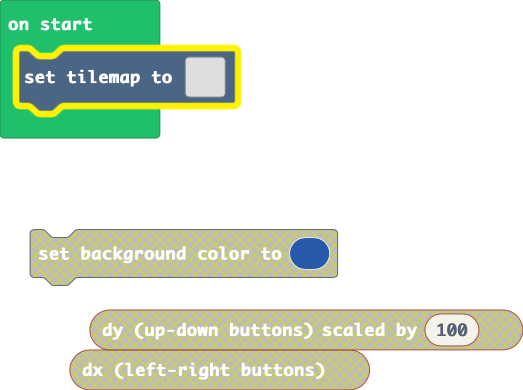
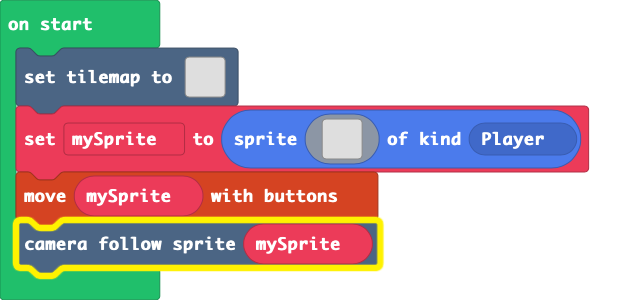
Update main.blocks, main.ts

diff --git a/main.ts b/main.ts
@@ -1,18 +1,35 @@
[1 lines of base64/hex data omitted]
-    . . . . . . . . . . . . . . . . 
-    . . . . . . . . . . . . . . . . 
-    . . . . . . . . . . . . . . . . 
-    . . . . . . . . . . . . . . . . 
-    . . . . . . . . . . . . . . . . 
-    . . . . . . . . . . . . . . . . 
-    . . . . . . . . . . . . . . . . 
-    . . . . . . . . . . . . . . . . 
-    . . . . . . . . . . . . . . . . 
-    . . . . . . . . . . . . . . . . 
-    . . . . . . . . . . . . . . . . 
-    . . . . . . . . . . . . . . . . 
-    . . . . . . . . . . . . . . . . 
-    . . . . . . . . . . . . . . . . 
-    . . . . . . . . . . . . . . . . 
-    . . . . . . . . . . . . . . . . 
-    `, [myTiles.transparency16,sprites.dungeon.purpleOuterNorthWest,sprites.dungeon.purpleInnerNorthEast,sprites.dungeon.purpleOuterNorth0,sprites.dungeon.purpleOuterNorthEast,sprites.dungeon.purpleOuterEast0,sprites.dungeon.purpleOuterWest0,sprites.dungeon.purpleOuterSouthEast,sprites.dungeon.purpleOuterSouthWest,sprites.dungeon.purpleOuterSouth1,sprites.dungeon.purpleInnerNorthWest,sprites.dungeon.purpleInnerSouthEast,sprites.dungeon.purpleInnerSouthWest,sprites.dungeon.purpleOuterWest1,sprites.dungeon.purpleOuterNorth1,sprites.dungeon.floorLight0], TileScale.Sixteen))
[1 lines of base64/hex data omitted]
+    . . . . . . . . . . 
+    . . . . . . . . . . 
+    . . . . . . . . . . 
+    . . . . . . . . . . 
+    . . . . . . . . . . 
+    . . . . . . . . . . 
+    . . . . . . . . . . 
+    . . . . . . . . . . 
+    . . . . . . . . . . 
+    . . . . . . . . . . 
+    . . . . . . . . . . 
+    . . . . . . . . . . 
+    . . . . . . . . . . 
+    `, [myTiles.transparency16,sprites.dungeon.purpleOuterNorthWest,sprites.dungeon.purpleInnerNorthEast,sprites.dungeon.purpleOuterNorth0,sprites.dungeon.purpleOuterNorthEast,sprites.dungeon.purpleOuterEast0,sprites.dungeon.purpleOuterSouthEast,sprites.dungeon.purpleOuterSouthWest,sprites.dungeon.purpleOuterSouth1,sprites.dungeon.purpleInnerNorthWest,sprites.dungeon.purpleInnerSouthEast,sprites.dungeon.purpleInnerSouthWest,sprites.dungeon.purpleOuterWest1,sprites.dungeon.purpleOuterNorth1,sprites.dungeon.floorLight0], TileScale.Sixteen))
+let mySprite = sprites.create(img`
+    . . . . f f f f f . . . . . . . 
+    . . . f e e e e e f . . . . . . 
+    . . f d d d d e e e f . . . . . 
+    . c d f d d f d e e f f . . . . 
+    . c d f d d f d e e d d f . . . 
+    c d e e d d d d e e b d c . . . 
+    c d d d d c d d e e b d c . f f 
+    c c c c c d d d e e f c . f e f 
+    . f d d d d d e e f f . . f e f 
+    . . f f f f f e e e e f . f e f 
+    . . . . f e e e e e e e f f e f 
+    . . . f e f f e f e e e e f f . 
+    . . . f e f f e f e e e e f . 3 
+    . . . f d b f d b f f e f . . . 
+    . . . f d d c d d b b d f . . . 
+    . . . . f f f f f f f f f . . . 
+    `, SpriteKind.Player)
+controller.moveSprite(mySprite)
+scene.cameraFollowSprite(mySprite)
